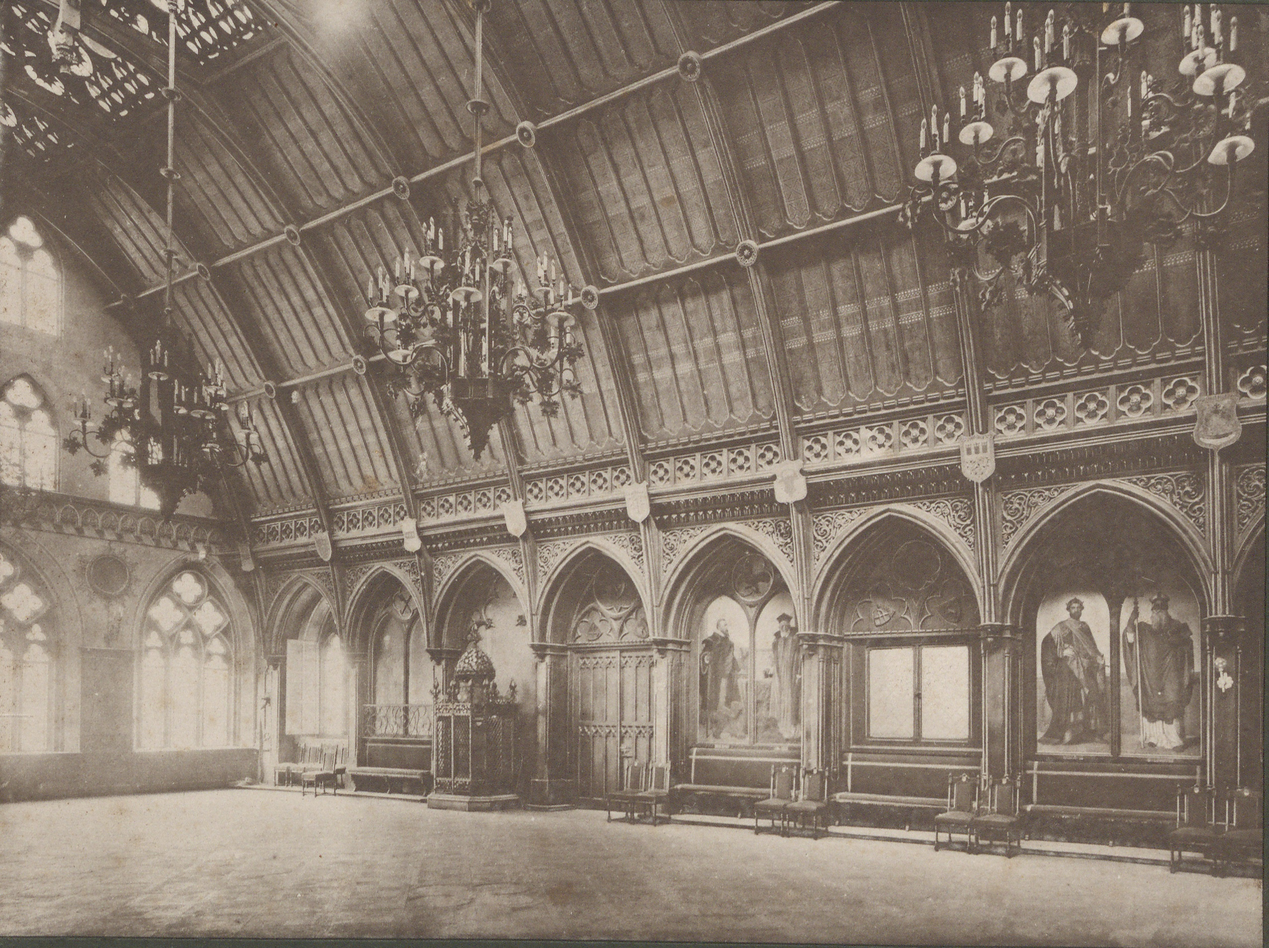
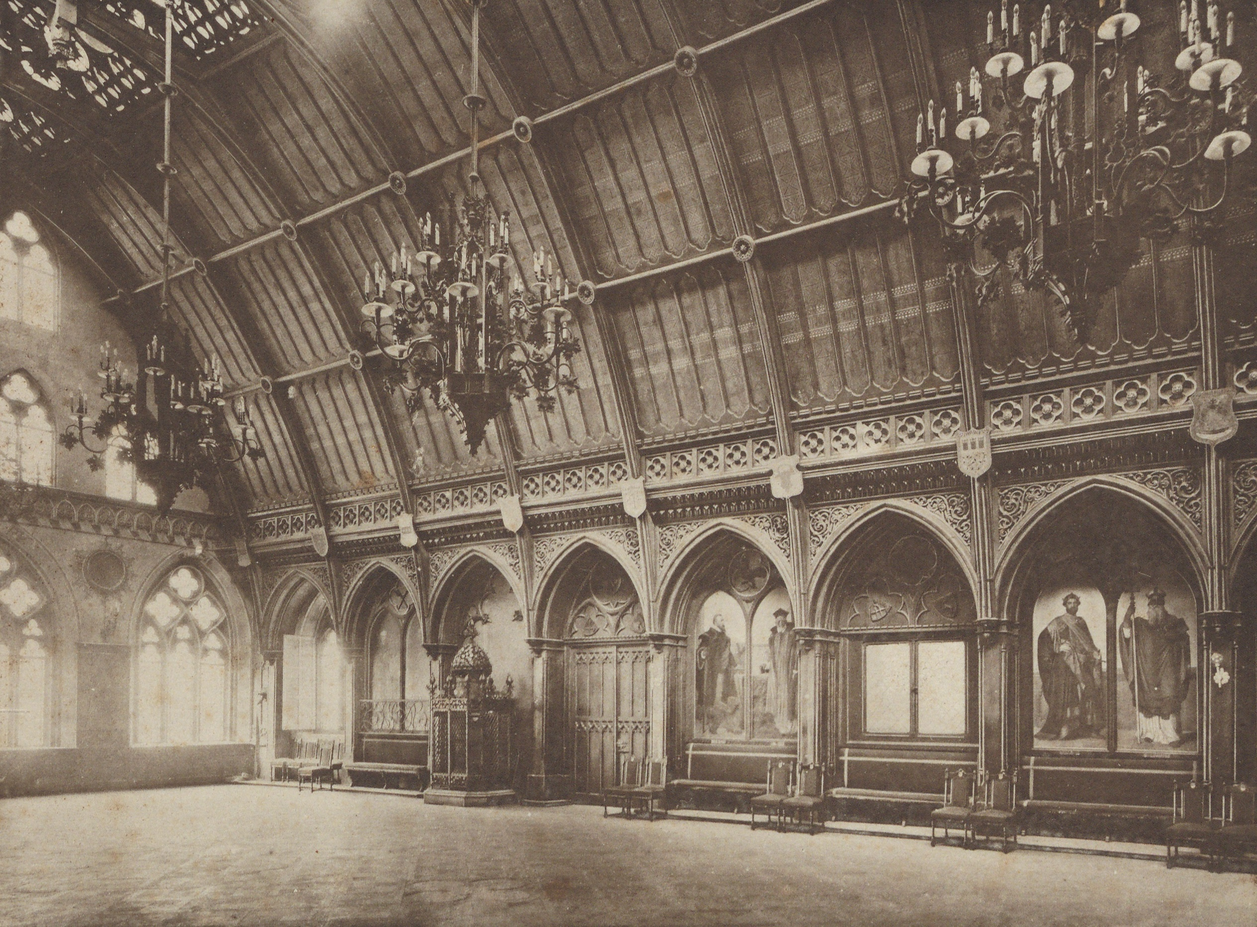
new homepage

diff --git a/src/routes/+page.svelte b/src/routes/+page.svelte
@@ -1,14 +1,52 @@
 <script>
 	import * as config from '$lib/config';
+	import LL from '$lib/i18n/i18n-svelte';
+
+	async function getExibitions() {
+		const response = await fetch('/api/exibitions/getMarkdown');
+		const exibitions = await response.json();
+		return exibitions;
+	}
 </script>
 
 <svelte:head>
 	<title>{config.title}</title>
 </svelte:head>
 
-<div class="relative flex h-screen w-screen flex-col items-center justify-center">
-	<div class="noise h-96 w-96 rounded-full" />
-	<h1 class="z-10 text-center font-serif text-6xl md:text-8xl">MusikVerein<br />Münster</h1>
+<div class="relative flex h-screen w-screen flex-col justify-end">
+	<img
+		class="absolute h-full w-full bg-cover bg-center object-cover brightness-75"
+		alt="Rathaussaal in Münster"
+		src="img/BW-Background.jpg"
+	/>
+	<div class="z-10 flex w-full flex-col gap-12 px-10 pb-10 text-right font-bold text-white">
+		<h1 class="z-10 w-full text-5xl md:text-8xl lg:text-8xl">
+			MusikVerein<br />Münster
+		</h1>
+		<div
+			class="flex w-full items-center gap-6 text-5xl font-bold sm:text-6xl md:items-end md:text-7xl lg:text-8xl"
+		>
+			<div class="grid grid-cols-1">
+				<a class="transition-transform duration-75 hover:-translate-y-1" href="/timeline"
+					>{$LL.navbar.timeline()}</a
+				>
+
+				<a class="group transition-transform duration-75 hover:-translate-y-1" href="/exibitions"
+					>{$LL.navbar.exibitions()}</a
+				>
+				<ul class="pl-5">
+					{#await getExibitions()}
+						<div></div>{:then exibitions}
+						{#each exibitions as exibition}
+							<li class="text-xl transition-transform duration-75 hover:-translate-y-1">
+								<a href="/exibitions/{exibition.slug}">{exibition.title}</a>
+							</li>
+						{/each}
+					{/await}
+				</ul>
+			</div>
+		</div>
+	</div>
 </div>
 
 <style>

diff --git a/src/components/layout/NavBar.svelte b/src/components/layout/NavBar.svelte
@@ -5,6 +5,7 @@
 	import { X } from 'lucide-svelte';
 	import LanguageSwitch from '$components/layout/LanguageSwitch.svelte';
 	import ThemeSwitch from '$components/layout/ThemeSwitch.svelte';
+	import { page } from '$app/stores';
 
 	async function getExibitions() {
 		const response = await fetch('/api/exibitions/getMarkdown');
@@ -20,14 +21,22 @@
 	function toggleMenu() {
 		isMenuActive = !isMenuActive;
 	}
+
+	$: isHomePage = $page.url.pathname === '/';
 </script>
 
-<div class="fixed top-0 z-40 flex h-10 w-full items-center justify-center bg-background">
+<div
+	class="fixed top-0 z-40 flex h-10 w-full items-center justify-center {isHomePage
+		? 'text-background text-white'
+		: 'bg-background text-primary'}"
+>
 	<div class="container flex justify-between text-lg">
 		<ul class="flex items-center">
-			<li>
-				<a class="font-bold" href="/">{$LL.navbar.home()}</a>
-			</li>
+			{#if !isHomePage}
+				<li>
+					<a class="font-bold" href="/">{$LL.navbar.home()}</a>
+				</li>
+			{/if}
 		</ul>
 		<button on:click={() => toggleMenu()} class="flex gap-3 font-bold hover:scale-hover"
 			>{$LL.navbar.menu()}</button
@@ -40,7 +49,7 @@
 					x: 1500,
 					easing: quintInOut
 				}}
-				class="left-50 absolute bottom-0 left-0 right-0 top-0 z-50 flex h-dvh flex-col bg-background pb-10 pl-10"
+				class="left-50 absolute bottom-0 left-0 right-0 top-0 z-50 flex h-dvh flex-col bg-background pb-10 pl-10 text-primary"
 			>
 				<button
 					on:click={() => toggleMenu()}

diff --git a/src/globals.css b/src/globals.css
@@ -10,6 +10,7 @@
 		--background: 0, 60%, 99%; /* white */
 		--primary: 0, 60%, 1%; /* black */
 		--secondary: 0, 60%, 99%; /* white */
+		--white: 0, 60%, 99%;
 		--accent: 0, 51%, 46%;
 		--destructive: 0 84.2% 60.2%;
 		--border: 240 5.9% 90%;
@@ -22,6 +23,7 @@
 		--background: 0, 60%, 1%; /* black */
 		--primary: 0, 60%, 99%; /* white */
 		--secondary: 0, 60%, 1%; /* black */
+		--white: 0, 60%, 99%;
 		--accent: 0, 51%, 54%;
 		--destructive: 0 62.8% 30.6%;
 		--border: 240 3.7% 15.9%;

diff --git a/svelte.config.js b/svelte.config.js
@@ -25,7 +25,8 @@ const config = {
 			$utils: 'src/utils',
 			$components: 'src/components',
 			$tailwind: 'src/globals.css',
-			$lib: 'src/lib'
+			$lib: 'src/lib',
+			$static: 'src/static'
 		}
 	},
 	preprocess: sequence([vitePreprocess(), preprocessMeltUI(), mdsvex(mdsvexOptions)])
